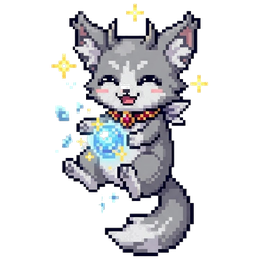
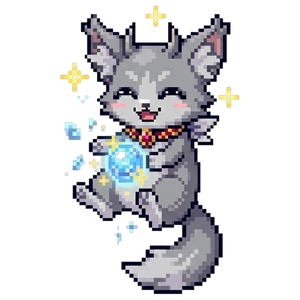
Fix mascot halo artifact and make the popup background truly context-aware
Two real bugs: the background-removal step left a faint white halo on
semi-transparent edge pixels because the RGB channels still carried the
original white blend (fixed via alpha color decontamination), and the
overlay's flat solid-color backdrop showed as a visible mismatched box
wherever it didn't line up with cards/buttons underneath.

Replaced the flat backdrop with a live screen capture of whatever's
actually behind the popup, blurred and dimmed for a frosted-glass look,
so it blends with any layout. Added an eased scale+fade pop-in/pop-out
(no ready-made Tkinter animation library exists, so this is a small
hand-rolled easing helper) for a more polished entrance/exit.

diff --git a/mascot.py b/mascot.py
@@ -1,63 +1,84 @@
-"""A centered, floating cat overlay: shows while downloading, then crossfades
-to a happy pose (with a sound cue) once the download finishes."""
+"""A centered cat pop-up overlay: dims/blurs a live capture of whatever is
+currently behind it (so it never shows a mismatched solid-color box), shows
+the "exhausted" cat while downloading, then crossfades to a "happy" pose
+(with a sound cue) once the download finishes, and fades back out."""
 from __future__ import annotations
 
 import tkinter as tk
 from typing import Callable, Optional
 
-from PIL import Image, ImageTk
+from PIL import Image, ImageFilter, ImageGrab, ImageTk
 
 from player import play_sound_effect
 
 
-def _hex_to_rgb(value: str) -> tuple[int, int, int]:
-    value = value.lstrip("#")
-    return int(value[0:2], 16), int(value[2:4], 16), int(value[4:6], 16)
+def _ease_out_cubic(t: float) -> float:
+    return 1 - (1 - t) ** 3
 
 
 class MascotOverlay:
-    """Manages a single floating label that shows the exhausted/happy cat art."""
+    """Manages a single floating label that renders the whole pop-up frame."""
 
-    FADE_STEPS = 18
-    FADE_INTERVAL_MS = 22
-    HOLD_MS = 2500
+    POP_STEPS = 14
+    POP_INTERVAL_MS = 16
+    CROSSFADE_STEPS = 18
+    CROSSFADE_INTERVAL_MS = 22
+    HOLD_MS = 2200
+    DIM_STRENGTH = 0.55
+    BLUR_RADIUS = 6
 
-    def __init__(
-        self,
-        master: tk.Widget,
-        exhausted_path: str,
-        happy_path: str,
-        sound_path: str,
-        bg_color: str,
-    ) -> None:
+    def __init__(self, master: tk.Widget, exhausted_path: str, happy_path: str, sound_path: str) -> None:
         self._master = master
         self._sound_path = sound_path
-        self._bg_color = bg_color
         self._after_id: Optional[str] = None
         self._label: Optional[tk.Label] = None
         self._photo = None  # keep a reference so Tk doesn't garbage-collect it
 
-        self._exhausted = self._load(exhausted_path)
-        self._happy = self._load(happy_path)
-        self._blank = Image.new("RGB", self._exhausted.size, _hex_to_rgb(bg_color))
+        self._exhausted = Image.open(exhausted_path).convert("RGBA")
+        self._happy = Image.open(happy_path).convert("RGBA")
+        self._cat_size = self._exhausted.size
 
-    def _load(self, path: str) -> Image.Image:
-        img = Image.open(path).convert("RGBA")
-        flat = Image.new("RGBA", img.size, _hex_to_rgb(self._bg_color) + (255,))
-        flat.paste(img, (0, 0), img)
-        return flat.convert("RGB")
+        self._backdrop_clean: Optional[Image.Image] = None
+        self._backdrop_dim: Optional[Image.Image] = None
 
     def _ensure_label(self) -> tk.Label:
         if self._label is None:
-            self._label = tk.Label(self._master, bg=self._bg_color, bd=0, highlightthickness=0)
+            self._label = tk.Label(self._master, bd=0, highlightthickness=0)
         return self._label
 
-    def _set_image(self, pil_image: Image.Image) -> None:
+    def _capture_backdrop(self) -> None:
+        self._master.update_idletasks()
+        x = self._master.winfo_rootx()
+        y = self._master.winfo_rooty()
+        w = max(1, self._master.winfo_width())
+        h = max(1, self._master.winfo_height())
+        shot = ImageGrab.grab(bbox=(x, y, x + w, y + h)).convert("RGBA")
+        self._backdrop_clean = shot
+        dark = Image.new("RGBA", shot.size, (5, 6, 20, 255))
+        blurred = shot.filter(ImageFilter.GaussianBlur(self.BLUR_RADIUS))
+        self._backdrop_dim = Image.blend(blurred, dark, self.DIM_STRENGTH)
+
+    def _compose(self, cat_image: Image.Image, dim_t: float, scale_t: float) -> Image.Image:
+        frame = Image.blend(self._backdrop_clean, self._backdrop_dim, dim_t)
+
+        cw, ch = self._cat_size
+        scale = 0.85 + 0.15 * scale_t
+        scaled = cat_image.resize((max(1, int(cw * scale)), max(1, int(ch * scale))), Image.LANCZOS)
+        if scale_t < 1.0:
+            alpha = scaled.getchannel("A").point(lambda a: int(a * scale_t))
+            scaled.putalpha(alpha)
+
+        fw, fh = frame.size
+        pos = ((fw - scaled.width) // 2, (fh - scaled.height) // 2)
+        frame.paste(scaled, pos, scaled)
+        return frame.convert("RGB")
+
+    def _set_frame(self, pil_image: Image.Image) -> None:
         self._photo = ImageTk.PhotoImage(pil_image)
         label = self._ensure_label()
         label.configure(image=self._photo)
         if not label.winfo_ismapped():
-            label.place(relx=0.5, rely=0.5, anchor="center")
+            label.place(relx=0, rely=0, relwidth=1, relheight=1)
         label.lift()
 
     def _cancel_pending(self) -> None:
@@ -69,7 +90,8 @@ class MascotOverlay:
 
     def show_exhausted(self) -> None:
         self._cancel_pending()
-        self._set_image(self._exhausted)
+        self._capture_backdrop()
+        self._animate_pop(0, self._exhausted, growing=True, on_done=None)
 
     def celebrate_and_hide(self) -> None:
         self._cancel_pending()
@@ -83,19 +105,32 @@ class MascotOverlay:
 
     # ----------------------------------------------------------- Private
 
-    def _schedule_hide(self) -> None:
-        self._after_id = self._master.after(self.HOLD_MS, self._fade_out)
+    def _animate_pop(
+        self, step: int, cat_image: Image.Image, growing: bool, on_done: Optional[Callable[[], None]]
+    ) -> None:
+        raw_t = step / self.POP_STEPS
+        t = _ease_out_cubic(raw_t) if growing else 1 - _ease_out_cubic(raw_t)
+        self._set_frame(self._compose(cat_image, t, t))
+        if step >= self.POP_STEPS:
+            if on_done:
+                on_done()
+            return
+        self._after_id = self._master.after(
+            self.POP_INTERVAL_MS, lambda: self._animate_pop(step + 1, cat_image, growing, on_done)
+        )
 
-    def _fade_out(self) -> None:
-        self._after_id = None
-        self._crossfade(self._happy, self._blank, 0, self.hide_immediately)
+    def _schedule_hide(self) -> None:
+        self._after_id = self._master.after(self.HOLD_MS, self._start_pop_out)
+
+    def _start_pop_out(self) -> None:
+        self._animate_pop(0, self._happy, growing=False, on_done=self.hide_immediately)
 
     def _crossfade(self, start: Image.Image, end: Image.Image, step: int, on_done: Callable[[], None]) -> None:
-        frame = Image.blend(start, end, step / self.FADE_STEPS)
-        self._set_image(frame)
-        if step >= self.FADE_STEPS:
+        blended = Image.blend(start, end, step / self.CROSSFADE_STEPS)
+        self._set_frame(self._compose(blended, 1.0, 1.0))
+        if step >= self.CROSSFADE_STEPS:
             on_done()
             return
         self._after_id = self._master.after(
-            self.FADE_INTERVAL_MS, lambda: self._crossfade(start, end, step + 1, on_done)
+            self.CROSSFADE_INTERVAL_MS, lambda: self._crossfade(start, end, step + 1, on_done)
         )

diff --git a/main.py b/main.py
@@ -195,7 +195,6 @@ class App(ctk.CTk):
             exhausted_path=resource_path("assets/cat_exhausted.png"),
             happy_path=resource_path("assets/cat_happy.png"),
             sound_path=resource_path("assets/sparkle.mp3"),
-            bg_color=BG_DEEP,
         )
 
         self.download_view.tkraise()